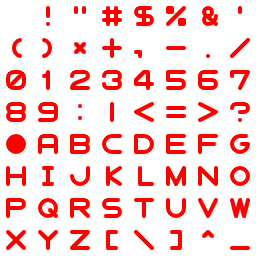
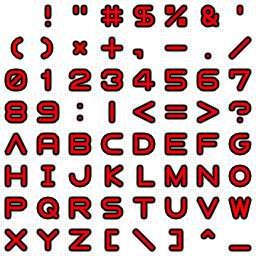
WIP: font

diff --git a/script/main.js b/script/main.js
@@ -37,12 +37,16 @@ function main(param) {
     game,
     // このシーンで利用するアセットのIDを列挙し、シーンに通知します
     assetIds: ["player", "shot", "se",
-      "assets/font64.png",
-      "assets/card64.png",
+      "assets/fontblack64.png",
       "assets/fontred64.png",
+      "assets/fontred48.png",
+      "assets/fontblue48.png",
+      "assets/icon64.png",
+      "assets/icon48.png",
       "assets/fontblack32.png",
       "assets/fontred32.png",
-      "assets/icon48.png",
+      "assets/fontwhite32.png",
+      "assets/fontblue32.png"
     ]
   });
   scene.onLoad.add(() => {

diff --git a/script/util.js b/script/util.js
@@ -85,10 +85,12 @@ class Util {
    * @returns 
    */
   static font(scene, advance, isRed) {
-    const id = isRed ? 'assets/fontred64.png' : 'assets/font64.png';
+    const blockSize = 64;
+    let col = isRed ? 'red' : 'black';
+    const id = `assets/font${col}${blockSize}.png`;
     const fontAsset = scene.asset.getImageById(id);
     const map = {};
-    const blockSize = 64;
+
     const pa = 4; // 6pxは削りすぎ
     const padding = {
       left: pa, top: pa, right: pa, bottom: pa,
